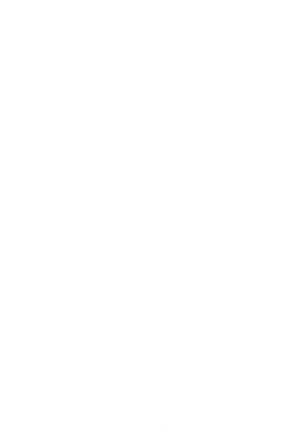
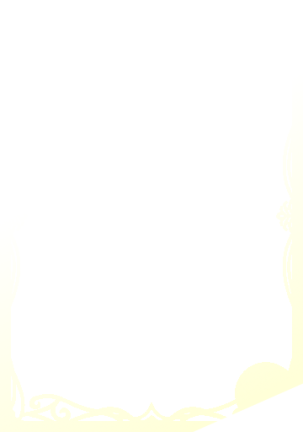
shine yellow, style cromo orange

Changed region(s): [[0.0, 0.6019, 1.0, 1.0]]

diff --git a/src/components/Card/styles.js b/src/components/Card/styles.js
@@ -1,4 +1,3 @@
-/* eslint-disable */
 import { makeStyles } from '@material-ui/core/styles';
 
 export const useStyles = makeStyles({
@@ -56,12 +55,10 @@ export const useStyles = makeStyles({
   },
   title: {
     top: 339,
-    //bottom: 66,
     zIndex: 200,
   },
   name: {
     top: 369,
-    //bottom: 37,
     zIndex: 200,
   },
   lvl: {
@@ -75,21 +72,21 @@ export const useStyles = makeStyles({
   cromo: {
     height: 350,
     width: 550,
-    transition: 'all 7s ease',
+    transition: 'all 4s ease',
     top: 0,
     zIndex: 100,
-    animation: '$shine 7s infinite ease',
+    animation: '$shine 10s infinite ease',
     '&>div.orange': {
       width: 550,
-      height: 100,
+      height: 80,
       background:
-        'linear-gradient(180deg, rgba(255,255,255,0) 1%, rgb(154, 114, 25, 0.6) 100%)',
+        'linear-gradient(180deg, rgba(255,255,255,0) 29%, rgb(165 90 26 / 36%) 81%)',
     },
     '&>div.white': {
       width: 550,
       height: 250,
       background:
-        'linear-gradient(180deg, rgba(255, 242, 195,0.9) 1%, rgba(255,255,255,0) 90%)',
+        'linear-gradient(180deg, rgb(253,236,176,0.9) 1%, rgba(255,255,255,0) 90%)',
     },
   },
   hole: {

diff --git a/src/helpers/gifer.js b/src/helpers/gifer.js
@@ -12,7 +12,7 @@ export async function makeGif(cardImage, cb) {
   const ctx = canvas.getContext('2d');
 
   const encoder = new GIFEncoder(w, h);
-  encoder.setDelay(75);
+  encoder.setDelay(120);
   encoder.start();
   const addFrame = await buildMakerFrame(encoder, ctx, cardImage, h, w);
 
